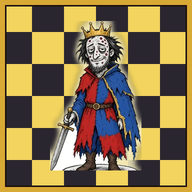
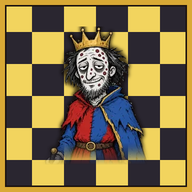
v0.9.4: ikon javítva (nincs fehér folt, király mellkepig a sakktáblán)
Claude-Session: https://claude.ai/code/session_01UjEV973pwa2DseKpb6hnW9

Changed region(s): [[0.25, 0.0938, 0.7812, 0.9062]]

diff --git a/js/main.js b/js/main.js
@@ -23,7 +23,7 @@
       for (let r = 0; r < n; r++) for (let c = 0; c < n; c++) if (qr.isDark(r, c)) g.fillRect(off + c * px, off + r * px, px, px);
     } catch (e) { console.warn('QR', e); }
   }
-  const APP_V = '0.9.3'; let deferredInstall = null, swReg = null, newWorker = null;
+  const APP_V = '0.9.4'; let deferredInstall = null, swReg = null, newWorker = null;
   const isStandalone = () => window.matchMedia('(display-mode: standalone)').matches || window.navigator.standalone;
   function showUpdateBanner(txt) {
     if ($('updBanner')) return; const d = document.createElement('div'); d.id = 'updBanner'; d.innerHTML = '<span></span><button>Betöltöm!</button>'; d.firstChild.textContent = txt; d.lastChild.onclick = applyUpdate; document.body.appendChild(d);

diff --git a/sw.js b/sw.js
@@ -1,5 +1,5 @@
 /* Szolgáltató-munkás: offline játék + frissítés. A CACHE neve a verzióval együtt változik. */
-const VERSION = '0.9.3', CACHE = 'parasztsakk-' + VERSION;
+const VERSION = '0.9.4', CACHE = 'parasztsakk-' + VERSION;
 const CORE = ['./', 'index.html', 'style.css', 'manifest.webmanifest', 'firebase-config.js', 'js/chess.js', 'js/audio.js', 'js/sprites.js', 'js/figures.js', 'js/world.js', 'js/lines.js', 'js/fx.js', 'js/net.js', 'js/qrcode.js', 'js/scenes.js', 'js/main.js',
   'icons/icon-192.png', 'icons/icon-512.png', 'icons/apple-touch-icon.png', 'assets/figs/meta.json'];
 self.addEventListener('install', e => { e.waitUntil(caches.open(CACHE).then(c => c.addAll(CORE)).then(() => self.skipWaiting())); });
